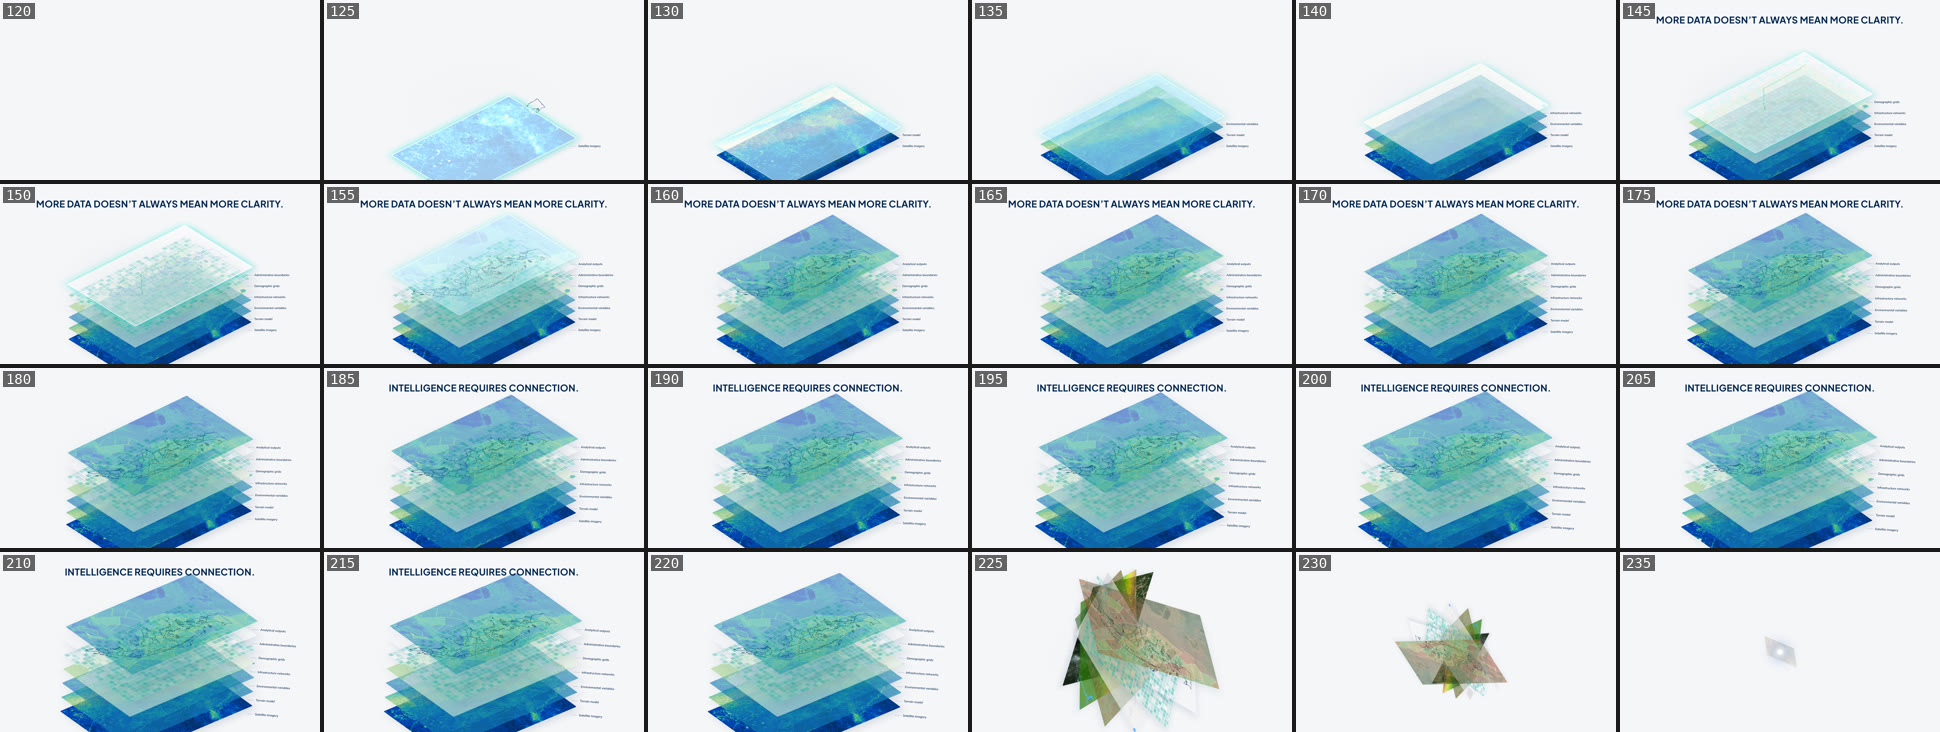
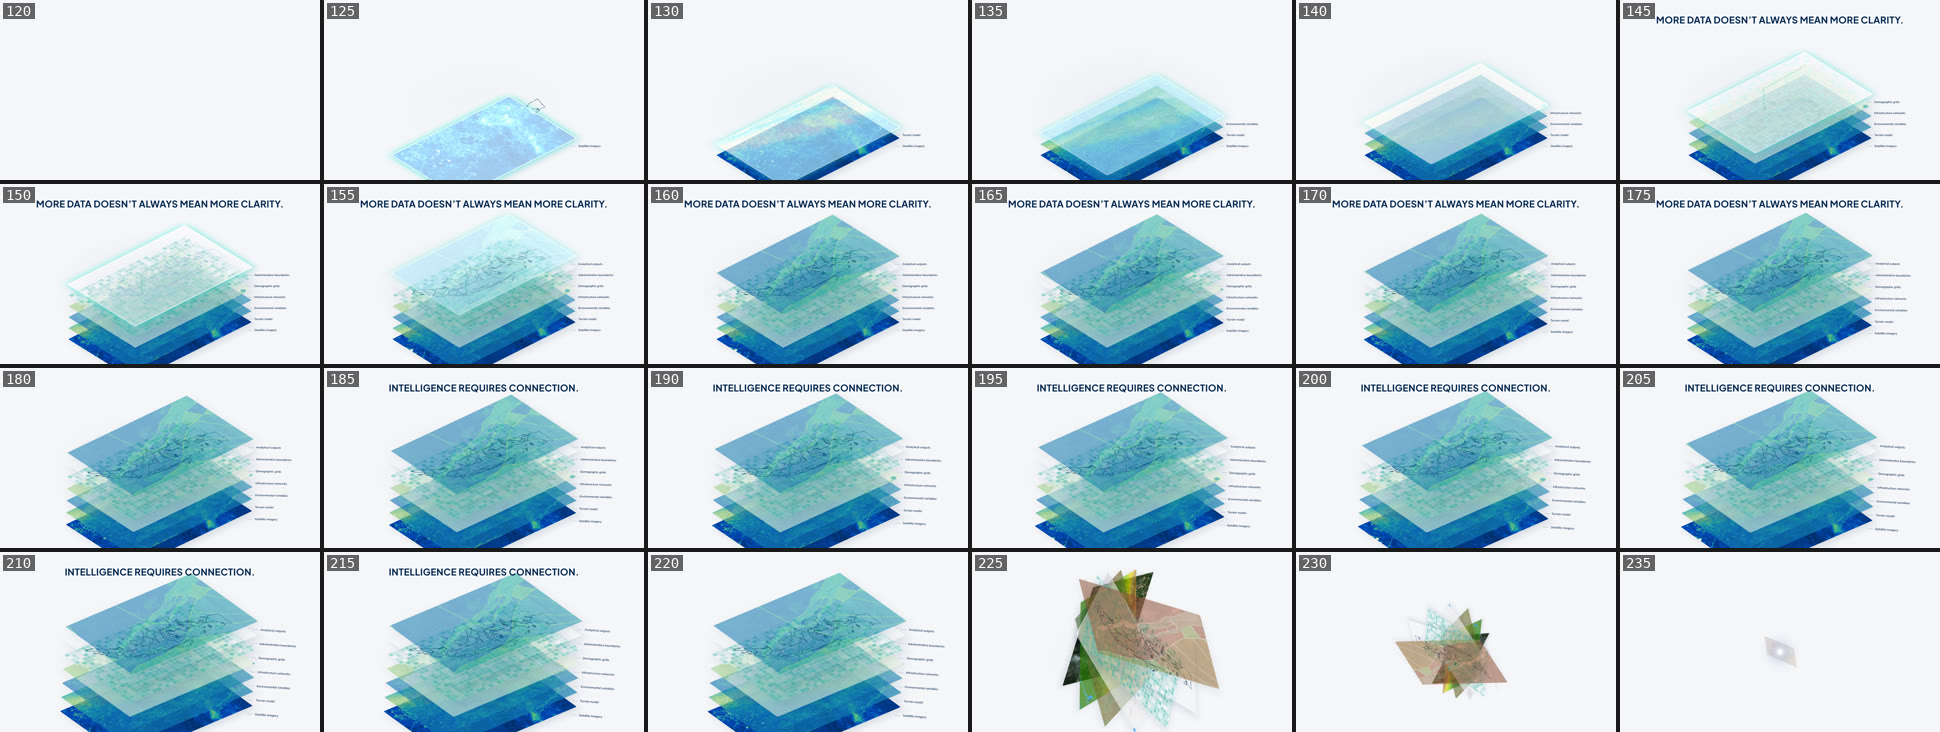
fix(galvis-film): jury round 1 — act 08
The navy dissolves radially from the right branch end; the headline lands on 91.0. Forestry's clear
side uses the full-width band of the fire-risk map (1.7× instead of 3.2× upscale; legend box
corrected), locked by a test that no clear strip upscales past 2×. Recap thumbnails are 400x200 and
land with a scale-up.

Claude-Session: https://claude.ai/code/session_0187RN5xC2Ne3Dptw6LeZ6Ei

diff --git a/projects/galvis-launch-film/compositions/08-enterprise.html b/projects/galvis-launch-film/compositions/08-enterprise.html
@@ -226,9 +226,9 @@
           // right branch end while the navy dissolves in Bayer order onto the first sector's raw strip.
           const CAM = GV.CAM_END;
           const navyCtx = $('navy').getContext('2d');
-          const curtain = GV.mountCurtain($('navy'), navyCtx.createPattern(GV.navyGlowCanvas(CAM), 'no-repeat'), 6);
-          $('arch').innerHTML = GV.architectureSvg({ lit: 'enterprise', scale: CAM });
           const END = [960 + (1500 - 960) * CAM, 540 + (820 - 540) * CAM];
+          const curtain = GV.mountCurtain($('navy'), navyCtx.createPattern(GV.navyGlowCanvas(CAM), 'no-repeat'), 6, { origin: END });
+          $('arch').innerHTML = GV.architectureSvg({ lit: 'enterprise', scale: CAM });
           const opening = (t) => {
             const k = 1 + 1.4 * GV.since(t, 0, 0.8, (u) => u * u);
             $('arch').firstElementChild.style.transform = `matrix(${k}, 0, 0, ${k}, ${(END[0] * (1 - k)).toFixed(1)}, ${(END[1] * (1 - k)).toFixed(1)})`;
@@ -244,7 +244,9 @@
 
           // Bar 46: the tag and the line, over the first sector's raw strip.
           gsap.set([$('tag'), $('sub')], { opacity: 0, y: 16 });
-          tl.to([$('tag'), $('sub')], { opacity: 1, y: 0, duration: 0.5, stagger: 0.12, ease: 'expo.out' }, A(46, 2));
+          // The headline lands on the beat; the small tag leads it by one stagger.
+          tl.to($('tag'), { opacity: 1, y: 0, duration: 0.5, ease: 'expo.out' }, A(46, 2) - 0.12);
+          tl.to($('sub'), { opacity: 1, y: 0, duration: 0.5, ease: 'expo.out' }, A(46, 2));
           tl.to($('sub'), { opacity: 0, y: -12, duration: 0.3 }, A(47));
 
           // Sector names and counters enter with each sector.
@@ -260,15 +262,16 @@
           const thumbs = sectors.map((sec, k) => {
             const card = make('div', 'thumb', $('recap'));
             const c = document.createElement('canvas');
-            c.width = 400; c.height = 125;
-            c.getContext('2d').drawImage(sec.clearC, 0, 0, 1920, 600, 0, 0, 400, 125);
+            // The centre 1200x600 of each sector's clear strip, at 400x200 so the four read at a glance.
+            c.width = 400; c.height = 200;
+            c.getContext('2d').drawImage(sec.clearC, 360, 0, 1200, 600, 0, 0, 400, 200);
             const label = document.createElement('span');
             label.textContent = SECTORS[k].name;
             card.append(c, label);
             return card;
           });
-          gsap.set(thumbs, { opacity: 0, y: 30 });
-          tl.to(thumbs, { opacity: 1, y: 0, duration: 0.45, stagger: 0.12, ease: 'expo.out' }, A(53, 1));
+          gsap.set(thumbs, { opacity: 0, y: 60, scale: 0.9 });
+          tl.to(thumbs, { opacity: 1, y: 0, scale: 1, duration: 0.35, stagger: 0.12, ease: 'expo.out' }, A(53, 1));
           // The last 0.3 s clear to plain Light Gray: act 09's curtain starts from it.
           tl.to([$('tag'), $('position'), $('recap')], { opacity: 0, duration: 0.2 }, A(53, 3) + 0.2);
           gsap.set($('position'), { opacity: 0, y: 24 });

diff --git a/projects/galvis-launch-film/shared/gv.js b/projects/galvis-launch-film/shared/gv.js
@@ -380,7 +380,7 @@ var GV = (() => {
       { t: 87.5, act: "act07-enrichment", what: "flow step 4", box: [1280, 910, 330, 70] },
       { t: 88, act: "act07-enrichment", what: "positioning line", box: [300, 860, 1320, 70] },
       { t: 89.5, act: "act07-enrichment", what: "back to the architecture", box: [0, 0, 1920, 1080] },
-      { t: 91, act: "act08-enterprise", what: "title", box: [96, 70, 1700, 140] },
+      { t: 91, act: "act08-enterprise", what: "title", box: [96, 128, 1260, 80] },
       { t: 92, act: "act08-enterprise", what: "plugboard goes dark", box: [0, 0, 1920, 1080] },
       { t: 94, act: "act08-enterprise", what: "sector 1", box: [0, 236, 1920, 600] },
       { t: 96.25, act: "act08-enterprise", what: "sector 2", box: [0, 236, 1920, 600] },
@@ -390,7 +390,7 @@ var GV = (() => {
       { t: 103.25, act: "act08-enterprise", what: "flash 2", box: [0, 236, 1920, 600] },
       { t: 103.5, act: "act08-enterprise", what: "flash 3", box: [0, 236, 1920, 600] },
       { t: 104, act: "act08-enterprise", what: "positioning line", box: [300, 390, 1320, 90] },
-      { t: 104.5, act: "act08-enterprise", what: "sector recap", box: [96, 560, 414, 130] },
+      { t: 104.5, act: "act08-enterprise", what: "sector recap", box: [108, 600, 384, 228] },
       { t: 106, act: "act09-reunify", what: "Workspace room pops at its branch end", box: [330, 690, 180, 120] },
       { t: 106.5, act: "act09-reunify", what: "Data Enrichment room pops at its branch end", box: [870, 690, 180, 120] },
       { t: 107, act: "act09-reunify", what: "Enterprise room pops at its branch end", box: [1410, 690, 180, 120] },
@@ -762,7 +762,7 @@ var GV = (() => {
   // shared/solution-crops.js
   var S = "assets/solution";
   var UI_BOXES = {
-    [`${S}/DMR/desktop/risk.jpg`]: [[0.32, 0.29, 0.23, 0.1], [0.82, 0.7, 0.17, 0.25]],
+    [`${S}/DMR/desktop/risk.jpg`]: [[0.32, 0.29, 0.23, 0.1], [0.64, 0.71, 0.35, 0.26]],
     [`${S}/ESC/desktop/biodiversity.jpg`]: [[0.23, 0.11, 0.22, 0.08], [0.32, 0.2, 0.06, 0.1], [0.02, 0.7, 0.34, 0.27], [0.67, 0.52, 0.31, 0.44]],
     [`${S}/WRWS/desktop/WaterResource-Desktop.jpg`]: [[0.64, 0.4, 0.34, 0.56]],
     [`${S}/ESRE/desktop/Network-Desktop.jpg`]: [[0.68, 0.6, 0.3, 0.37]],
@@ -773,7 +773,8 @@ var GV = (() => {
     [`${S}/EBG/desktop/Geomarketing-Desktop.jpg`]: [[0.91, 0.38, 0.09, 0.62], [0.01, 0.88, 0.18, 0.1]]
   };
   var CLEAN_CROPS = {
-    [`${S}/DMR/desktop/risk.jpg`]: [0.55, 0.05, 0.27, 0.62],
+    [`${S}/DMR/desktop/risk.jpg`]: [0, 0.395, 1, 0.31],
+    // the full-width band between the label and the legend
     [`${S}/ESC/desktop/biodiversity.jpg`]: [0.4, 0.3, 0.26, 0.4],
     [`${S}/WRWS/desktop/WaterResource-Desktop.jpg`]: [0, 0, 0.62, 0.75],
     [`${S}/ESRE/desktop/Network-Desktop.jpg`]: [0.02, 0.02, 0.64, 0.56],

diff --git a/projects/galvis-launch-film/shared/solution-crops.js b/projects/galvis-launch-film/shared/solution-crops.js
@@ -3,7 +3,7 @@
 const S = 'assets/solution';
 
 export const UI_BOXES = {
-  [`${S}/DMR/desktop/risk.jpg`]: [[0.32, 0.29, 0.23, 0.1], [0.82, 0.7, 0.17, 0.25]],
+  [`${S}/DMR/desktop/risk.jpg`]: [[0.32, 0.29, 0.23, 0.1], [0.64, 0.71, 0.35, 0.26]],
   [`${S}/ESC/desktop/biodiversity.jpg`]: [[0.23, 0.11, 0.22, 0.08], [0.32, 0.2, 0.06, 0.1], [0.02, 0.7, 0.34, 0.27], [0.67, 0.52, 0.31, 0.44]],
   [`${S}/WRWS/desktop/WaterResource-Desktop.jpg`]: [[0.64, 0.4, 0.34, 0.56]],
   [`${S}/ESRE/desktop/Network-Desktop.jpg`]: [[0.68, 0.6, 0.3, 0.37]],
@@ -15,7 +15,7 @@ export const UI_BOXES = {
 };
 
 export const CLEAN_CROPS = {
-  [`${S}/DMR/desktop/risk.jpg`]: [0.55, 0.05, 0.27, 0.62],
+  [`${S}/DMR/desktop/risk.jpg`]: [0, 0.395, 1, 0.31], // the full-width band between the label and the legend
   [`${S}/ESC/desktop/biodiversity.jpg`]: [0.4, 0.3, 0.26, 0.4],
   [`${S}/WRWS/desktop/WaterResource-Desktop.jpg`]: [0, 0, 0.62, 0.75],
   [`${S}/ESRE/desktop/Network-Desktop.jpg`]: [0.02, 0.02, 0.64, 0.56],
